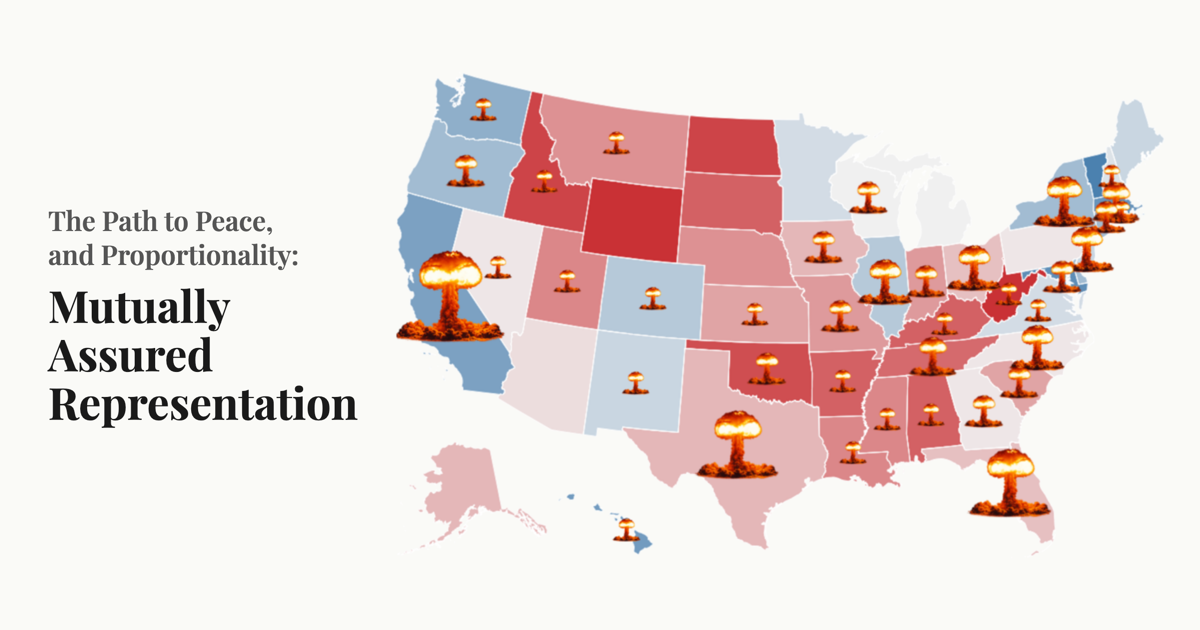
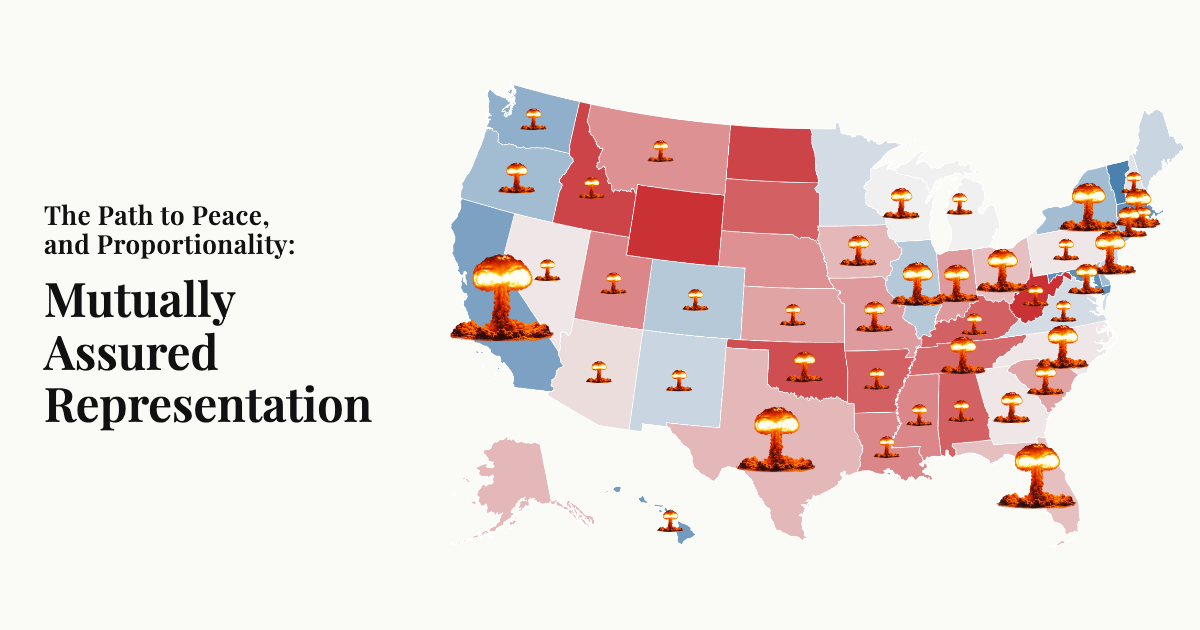
Widen the undecided band to a point either side of even
EVEN_BAND in districtLeans.ts is now 1, so a district within a point of even
counts for neither party. Cook rates exactly seven districts EVEN; the band
takes seventeen, across twelve states.

The line at exactly EVEN was an artifact of where Cook's rounding fell rather
than a claim about competitiveness. Of the ten R+1 and D+1 districts it adds,
four are rated Toss Up and three Lean, three are Likely, and none is Solid —
and in a midterm on a neutral environment a seat a point off even is a seat
in play. The ratings stay a sanity check on where the line sits and never an
input: they fold in incumbency, which is why PA-01 is D+1 and still Likely R
while OH-09 is R+5 and still a Toss Up, and this is an argument about
districts rather than about races.

Knock-on figures: national gap 101 -> 103, and the House balance headline
221R/197D/17 undecided, R+24 rather than R+22 — the band takes four R-leaning
districts and six D-leaning ones, so the margin widens. Pennsylvania picks up
a gap of 1 and leaves the no-gap group, which is now ME, MN and NE. Michigan
holds two undecided districts against a fair map calling for one, so it reads
1E over 2E and keeps a gap of 1.

Undecided districts now have somewhere to trade. Seven surplus states sit on
the D-drawn side and five on the R-drawn, against one before, so 35 of the
468 cross-gutter pairings can move one where five could before and only one
of those could ever happen. Six states have no party gap at all and can only
[…]

Changed region(s): [[0.3083, 0.1206, 0.9867, 0.8746], [0.0308, 0.3317, 0.3083, 0.6937]]

diff --git a/src/data/districtLeans.ts b/src/data/districtLeans.ts
@@ -3,6 +3,25 @@ import districtPviRaw from './cook2026DistrictPVI.tsv?raw';
 /** A district this far from even is treated as locked for its party. */
 export const SAFE_SEAT_THRESHOLD = 8;
 
+/**
+ * A district within this much of even counts as undecided — drawn for neither
+ * party, and so held out of both party tallies.
+ *
+ * Cook rates exactly seven districts EVEN, but a band of one takes in seventeen,
+ * and the ones it adds are the ones nobody has called: of the ten R+1 and D+1
+ * districts, four are rated Toss Up and three Lean, three are Likely, and none is
+ * Solid. In a midterm, on a neutral national environment, a seat a point off even
+ * is a seat in play. Drawing the line at exactly EVEN made the band an artifact of
+ * where Cook's rounding fell rather than a claim about competitiveness.
+ *
+ * The ratings and the PVI are not the same measure and shouldn't be conflated — the
+ * ratings fold in incumbency and candidate quality, which is why PA-01 is D+1 and
+ * still Likely R, and why OH-09 is R+5 and still a Toss Up. This tool is an argument
+ * about districts rather than about races, so PVI stays the input; the ratings are
+ * only the sanity check on where the line sits.
+ */
+export const EVEN_BAND = 1;
+
 export interface SafeSeatCounts {
   safeR: number;
   safeD: number;
@@ -30,16 +49,18 @@ function parseLeanString(leanStr: string): number {
 function categorizeLeans(leans: number[]): SafeSeatCounts {
   let safeR = 0, safeD = 0, leanR = 0, even = 0, leanD = 0;
   for (const lean of leans) {
-    if (lean >= SAFE_SEAT_THRESHOLD) {
+    // The band is tested first: a district inside it belongs to neither party,
+    // whichever way the last point of its margin happens to fall.
+    if (Math.abs(lean) <= EVEN_BAND) {
+      even++;
+    } else if (lean >= SAFE_SEAT_THRESHOLD) {
       safeR++;
     } else if (lean <= -SAFE_SEAT_THRESHOLD) {
       safeD++;
     } else if (lean > 0) {
       leanR++;
-    } else if (lean < 0) {
-      leanD++;
     } else {
-      even++;
+      leanD++;
     }
   }
   return {

diff --git a/src/components/BipartiteMatchGraph.tsx b/src/components/BipartiteMatchGraph.tsx
@@ -315,7 +315,7 @@ interface BoxBodyProps {
   minorityParty: 'D' | 'R';
   /** EVEN districts inside the ideal — 1 only where the state's PVI splits exactly. */
   fairEven: number;
-  /** EVEN districts in the enacted map — zero for all but seven states. */
+  /** EVEN districts in the enacted map — zero for all but twelve states. */
   currentEven: number;
   proportional: number;
   current: number;
@@ -452,10 +452,10 @@ interface Placement {
 }
 
 /**
- * EVEN districts the state carries. Seven states have exactly one apiece and the
- * other forty-three have none, so this is zero almost everywhere — but where it
- * isn't, it's a district the enacted map hasn't decided — counted for neither party
- * and listed as itself beside the count on the box.
+ * EVEN districts the state carries — those inside EVEN_BAND, not only the ones Cook
+ * rates exactly EVEN. Twelve states hold at least one and thirty-eight hold none, so
+ * this is zero more often than not; where it isn't, it's a district the enacted map
+ * hasn't decided, counted for neither party and listed as itself beside the count.
  */
 function evenDistrictsOf(state: StateData): number {
   return stateSafeSeats[state.id]?.even ?? 0;
@@ -479,8 +479,8 @@ function formatLean(lean: number): string {
  * that doesn't, R+1 with a D-drawn map, and reading the gap directly puts it with
  * the states it can actually disarm.
  *
- * Four states carry no gap and so hold no gerrymander to name a side (ME, MN, NE,
- * PA). They fall back to the lean, which settles all four — none of them is EVEN.
+ * Three states carry no gap and so hold no gerrymander to name a side (ME, MN, NE).
+ * They fall back to the lean, which settles all three — none of them is EVEN.
  *
  * The third test, on who holds the branches, is currently unexercised. It's there
  * for a state that is gap 0 *and* exactly EVEN, which Michigan no longer is: its

diff --git a/src/data/computeRepresentationGap.ts b/src/data/computeRepresentationGap.ts
@@ -40,7 +40,7 @@ export function fairSplit(state: StateData): FairSplit {
  *   gap     = whichever party is shorter, signed positive when that party is D
  *             (i.e. positive → R overrepresented, negative → D overrepresented)
  *
- * A district rated exactly EVEN is one Cook declined to call. It is **not** counted
+ * A district inside EVEN_BAND is one the map hasn't decided. It is **not** counted
  * for either party and it is **not** taken out of the delegation the ideal divides —
  * so it shows up as the squeezed party being one district short, which is exactly
  * what it is. Virginia should have 5R and has 4R drawn, with one district left
@@ -76,11 +76,11 @@ export const baselineGaps: Record<string, number> = Object.fromEntries(
 /**
  * EVEN districts a state holds beyond the ones its fair map wants left undecided.
  *
- * Michigan's fair map is 6R, 6D and a toss-up, so the EVEN district it holds is the
- * one it is supposed to have — nothing surplus, nothing to trade. The other six
- * EVEN states have fair maps with no toss-up in them, so their EVEN district is a
- * district that ought to have been drawn for somebody, and it is the part of their
- * gap that a pact can reach.
+ * Michigan's fair map is 6R, 6D and a toss-up, so one of the two EVEN districts it
+ * holds is the one it is supposed to have — that one is not surplus and cannot be
+ * traded. Every other EVEN state has a fair map with no toss-up in it, so all of its
+ * EVEN districts ought to have been drawn for somebody, and they are the part of its
+ * gap that an EVEN-for-EVEN trade can reach.
  */
 export function surplusEvenOf(stateId: string): number {
   const counts = stateSafeSeats[stateId];

diff --git a/README.md b/README.md
@@ -10,10 +10,10 @@ gives back nine, the national party balance doesn't move at all — only the dis
 
 ## The numbers
 
-- **National representation gap: 99 of 435 seats.** The sum of every state's distance from
+- **National representation gap: 103 of 435 districts.** The sum of every state's distance from
   proportional.
-- **House balance: R+22** (225 R-leaning districts, 203 D-leaning, 7 even). This never moves when a
-  pact is signed, which is the entire argument.
+- **House balance: R+24** (221 R-leaning districts, 197 D-leaning, 17 undecided). This never moves
+  when a pact is signed, which is the entire argument.
 
 ## How the math works
 
@@ -29,9 +29,13 @@ gap              = how far the squeezed party falls short of its fair number
 Positive means Republicans are overrepresented, negative means Democrats are. Both figures come from
 Cook PVI, so they sit on the same scale, and everything is whole districts.
 
-A district Cook rates exactly `EVEN` is one it declined to call. It counts for neither party, and it
-is not taken out of the delegation the fair split divides — so it shows up as the squeezed party
-being a district short, which is exactly what it is. **Virginia should have 5R. It has 4R drawn and
+A district within a point of even — `EVEN_BAND`, so `|PVI| <= 1` — is one the map hasn't decided.
+Cook rates seven districts exactly `EVEN`, but the band takes in seventeen, and the ten it adds are
+the ones nobody has called: four are rated Toss Up, three Lean, three Likely, none Solid. In a
+midterm on a neutral environment, a seat a point off even is a seat in play, and drawing the line at
+exactly `EVEN` made the boundary an artifact of where Cook's rounding fell. Such a district counts for
+neither party, and it is not taken out of the delegation the fair split divides — so it shows up as
+the squeezed party being a district short, which is exactly what it is. **Virginia should have 5R. It has 4R drawn and
 one district left undecided. Its gap is 1.** The matching view lists that district beside the enacted
 count rather than folding it into either tally, so Virginia's 2026 row reads `1E 4R` against a fair
 `5R`.
@@ -60,11 +64,12 @@ So each state's gap has two parts, and they settle separately: party districts d
 and surplus EVEN districts. Michigan's EVEN district is not surplus — its fair map calls for a
 toss-up — so Michigan trades on its party gap alone, like a state with no EVEN district at all.
 
-One consequence is worth naming. Arizona is the only surplus-EVEN state whose map is drawn R;
-Colorado, New Jersey, New Mexico, New York and Virginia are all drawn D. Every EVEN-for-EVEN trade on
-the board therefore runs through Arizona, and only one state can have it. Colorado, New Mexico and
-Virginia have no party gap at all — their whole gap is that one undecided district — so Arizona is the
-only partner that returns them anything.
+Seven states carry a surplus undecided district on the D-drawn side (CA, CO, NV, NJ, NM, NY, VA) and
+five on the R-drawn side (AZ, IN, MI, OH, PA), so undecided districts have somewhere to go: 35 of the
+468 cross-gutter pairings trade one. Six states — AZ, CO, MI, NV, NM, PA — have no party gap at all,
+their whole gap being undecided districts, so their only productive partners are the surplus states
+across the gutter. Pair one of them with anyone else and the pact pays out zero, which the badges show
+honestly as `0`.
 
 Columns in the matching view are split by **which way each state's map is drawn** — the direction of
 its representation gap, D-drawn on the left and R-drawn on the right. That's the thing a pact trades,
@@ -72,8 +77,8 @@ so every pairing across the gutter has seats in it. A state's own partisan lean 
 of the 44 multi-district states sit on the side their statewide PVI names. Nevada is the exception,
 R+1 but D-gerrymandered by a seat, and it sits with the states it can actually disarm.
 
-Four states carry no gap and so no side — Maine, Minnesota, Nebraska and Pennsylvania. They fall
-back to their lean, which settles all four. Below that sits a third test, on **who holds
+Three states carry no gap and so no side — Maine, Minnesota and Nebraska. They fall back to their
+lean, which settles all three. Below that sits a third test, on **who holds
 the branches**, for a state that has no gap *and* an exactly EVEN lean: the signatory is the state
 government, so its party is better read off the government than off a rounded statewide margin, and
 Democrats have to win the branches outright so a state that split them evenly would stay on the
@@ -241,9 +246,10 @@ Two rounding choices are worth knowing:
 - The fair R district count is `districts × (50 − statePVI) / 100`, rounded — except where it lands
   exactly on a half, which makes the odd district a toss-up in the fair map rather than a rounding.
   Only Michigan reaches that.
-- Districts rated exactly `EVEN` (7 nationally) count for neither party and stay in the delegation the
-  fair split divides, so each one shows up as its state's squeezed party being a district short. Every
-  gap is a whole number, and the national baseline is 101.
+- Districts within `EVEN_BAND` of even — `|PVI| <= 1`, which is 17 districts across 12 states — count
+  for neither party and stay in the delegation the fair split divides, so each one shows up as its
+  state's squeezed party being a district short. Every gap is a whole number, and the national
+  baseline is 103.
 
 One known limitation: proportionality from statewide PVI ignores political geography. Democratic
 voters are concentrated in cities, so a state can land far from its PVI-proportional ideal without

diff --git a/CLAUDE.md b/CLAUDE.md
@@ -97,9 +97,14 @@ paragraph under them says it again. The absence is the design, not an oversight 
   arithmetic (`districts × (50 − lean)`, remainder 50 being a true half); Michigan is the only state
   it reaches.
   The gap is then `max(R short, D short)`, signed positive when D is the short one (R overrepresented).
-  A district rated exactly EVEN is **not** counted for either party and **not** taken out of the
-  delegation the ideal divides, so it surfaces as the squeezed party being one district short — which
-  is what it is. Virginia should have 5R, has 4R drawn and one district left undecided: a gap of 1.
+  A district inside `EVEN_BAND` (`|PVI| <= 1`, in `districtLeans.ts`) is **not** counted for either
+  party and **not** taken out of the delegation the ideal divides, so it surfaces as the squeezed party
+  being one district short — which is what it is. Virginia should have 5R, has 4R drawn and one
+  district left undecided: a gap of 1. The band is a point wide rather than exactly EVEN because that
+  is where competitiveness actually sits: Cook rates 7 districts EVEN, the band takes 17 across 12
+  states, and of the 10 it adds, 4 are rated Toss Up, 3 Lean, 3 Likely and none Solid. See the comment
+  on `EVEN_BAND` — and note the ratings are only the sanity check on where the line goes, never an
+  input, since they fold in incumbency and this is an argument about districts.
   The two shortfalls sum to the enacted EVEN districts beyond the ideal's own, which is why the larger
   is the gap: it's the side that has to be made whole. Where the ideal carries a toss-up too — only
   Michigan — the two cancel and the gap is the difference of the party counts alone.
@@ -112,7 +117,7 @@ paragraph under them says it again. The absence is the design, not an oversight 
   how the last of the gap closes, so Virginia's `1E 4R` becomes a flat `5R`. It survives a pact that
   only closes part of the gap, where a district already drawn for the other party changes hands
   instead — New Jersey goes `1E 2R` → `1E 3R`.
-  National baseline gap: **101**. Four states carry none (ME, MN, NE, PA).
+  National baseline gap: **103**. Three states carry none (ME, MN, NE).
 - **Pacts**: A pact converts the same number of districts in both partners, so its national effect is
   `2 × returned`. Whatever gap survives stays on the map.
   **The House balance must not move** — that is the argument the whole tool makes, and it decides
@@ -132,11 +137,11 @@ paragraph under them says it again. The absence is the design, not an oversight 
   what the fair map asks for — **Michigan's is not surplus**, its fair map calling for a toss-up, so
   Michigan trades on its party gap alone like a state with no EVEN district at all. The other six EVEN
   states carry one surplus apiece.
-  Consequence worth knowing: **Arizona is the only surplus-EVEN state on the R-drawn side.** CO, NJ,
-  NM, NY and VA are all D-drawn, so every EVEN-for-EVEN trade on the board runs through Arizona, and
-  only one of them can have it. CO, NM and VA have a party gap of zero — their whole gap is that one
-  undecided district — so Arizona is the only partner that returns them anything at all. Pair them
-  with anyone else and the pact pays out zero, which the badges show honestly as `0`.
+  Surplus undecided districts sit on both sides — seven states D-drawn (CA, CO, NV, NJ, NM, NY, VA)
+  against five R-drawn (AZ, IN, MI, OH, PA) — so 35 of the 468 cross-gutter pairings trade one.
+  Consequence worth knowing: six states (AZ, CO, MI, NV, NM, PA) have a party gap of **zero**, their
+  whole gap being undecided districts, so their only productive partners are the surplus states across
+  the gutter. Pair one with anyone else and the pact pays out zero, which the badges show as `0`.
 - **MAR Matching**: The user pairs states manually. Clicking a state pins it to the head of its own
   column and re-ranks *both* columns around it: closest delegation size, then closest proportional
   minority share (the box's top row), then closest representation gap, then alphabetical. The durable
@@ -158,8 +163,8 @@ paragraph under them says it again. The absence is the design, not an oversight 
   side their own PVI names — and reading the gap instead only moves Nevada, which is R+1 with a
   D-drawn map and belongs with the states it can actually disarm. The gap must be the baseline and
   not the residual, or sealing a pact would move its own partners' columns.
-  Four states carry no gap and so no side (ME, MN, NE, PA); they fall back to lean, which settles all
-  four. A third test, on who holds the branches, sits below that for a state that is gap 0 *and* lean
+  Three states carry no gap and so no side (ME, MN, NE); they fall back to lean, which settles all
+  three. A third test, on who holds the branches, sits below that for a state that is gap 0 *and* lean
   EVEN — the signatory read off the government instead of a rounded margin, with D having to win the
   branches outright so an even split stays right. Nothing reaches it today: it was there for Michigan,
   whose fair map of 6R, 6D and a toss-up against an enacted 7R and 5D leaves its Democrats a district
